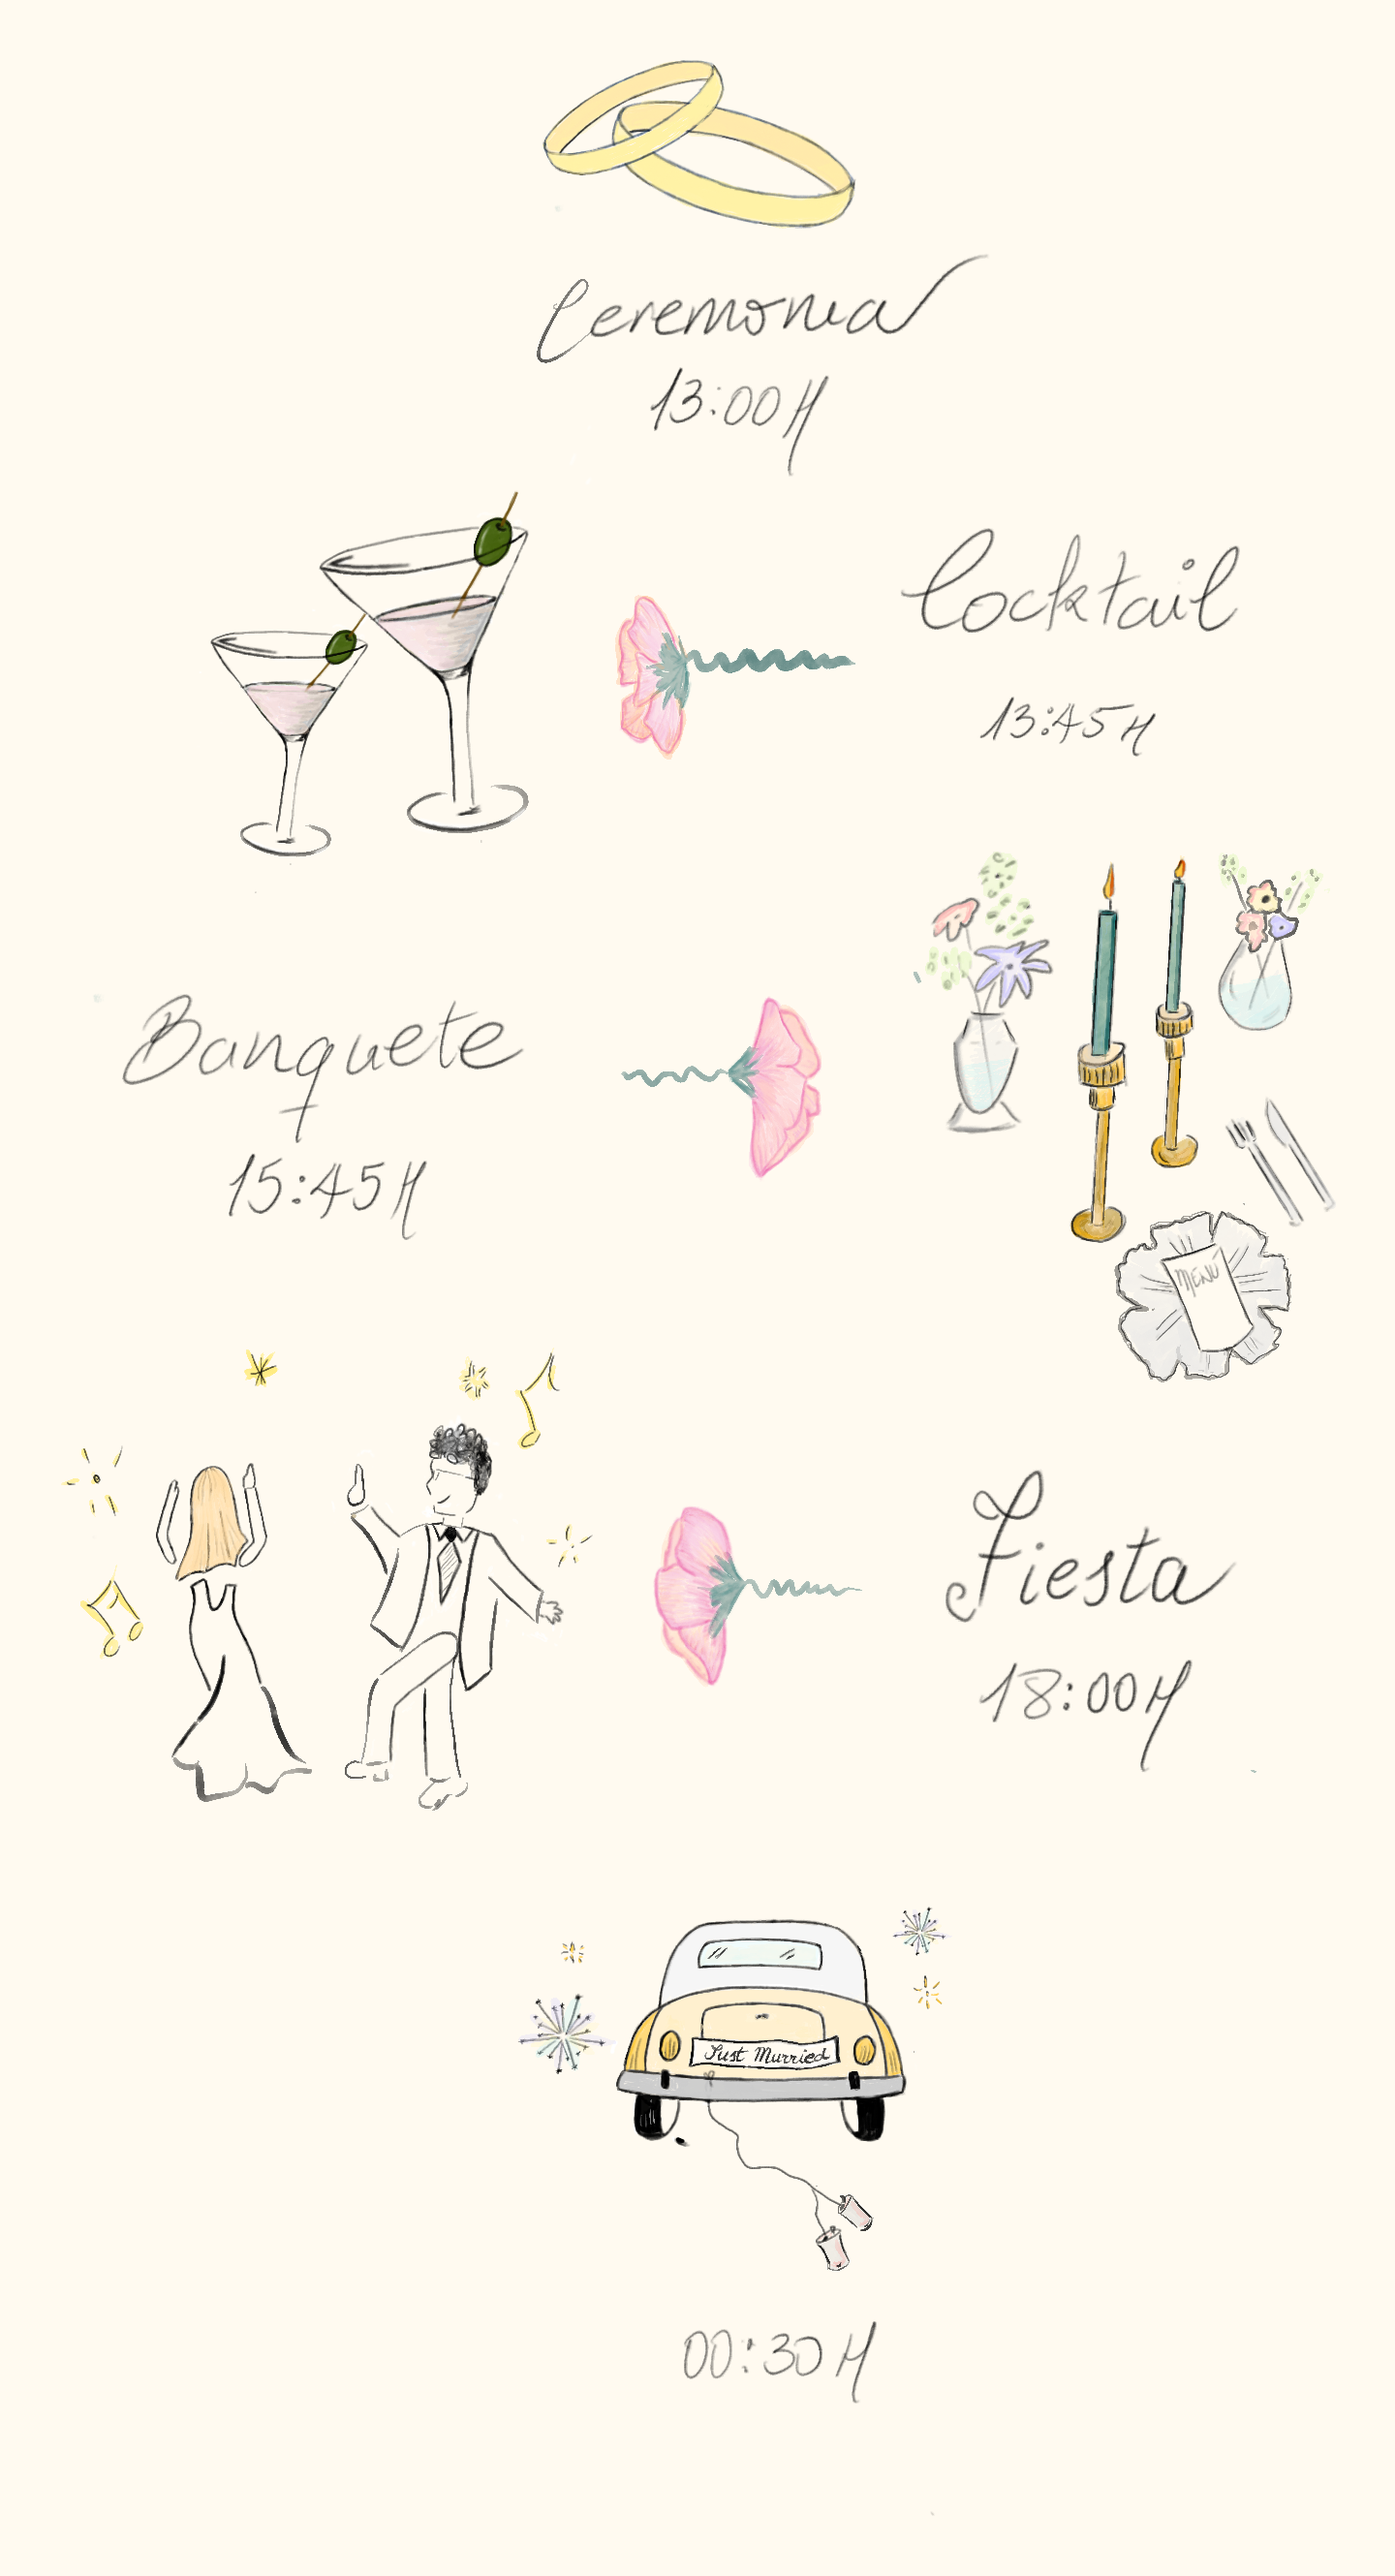
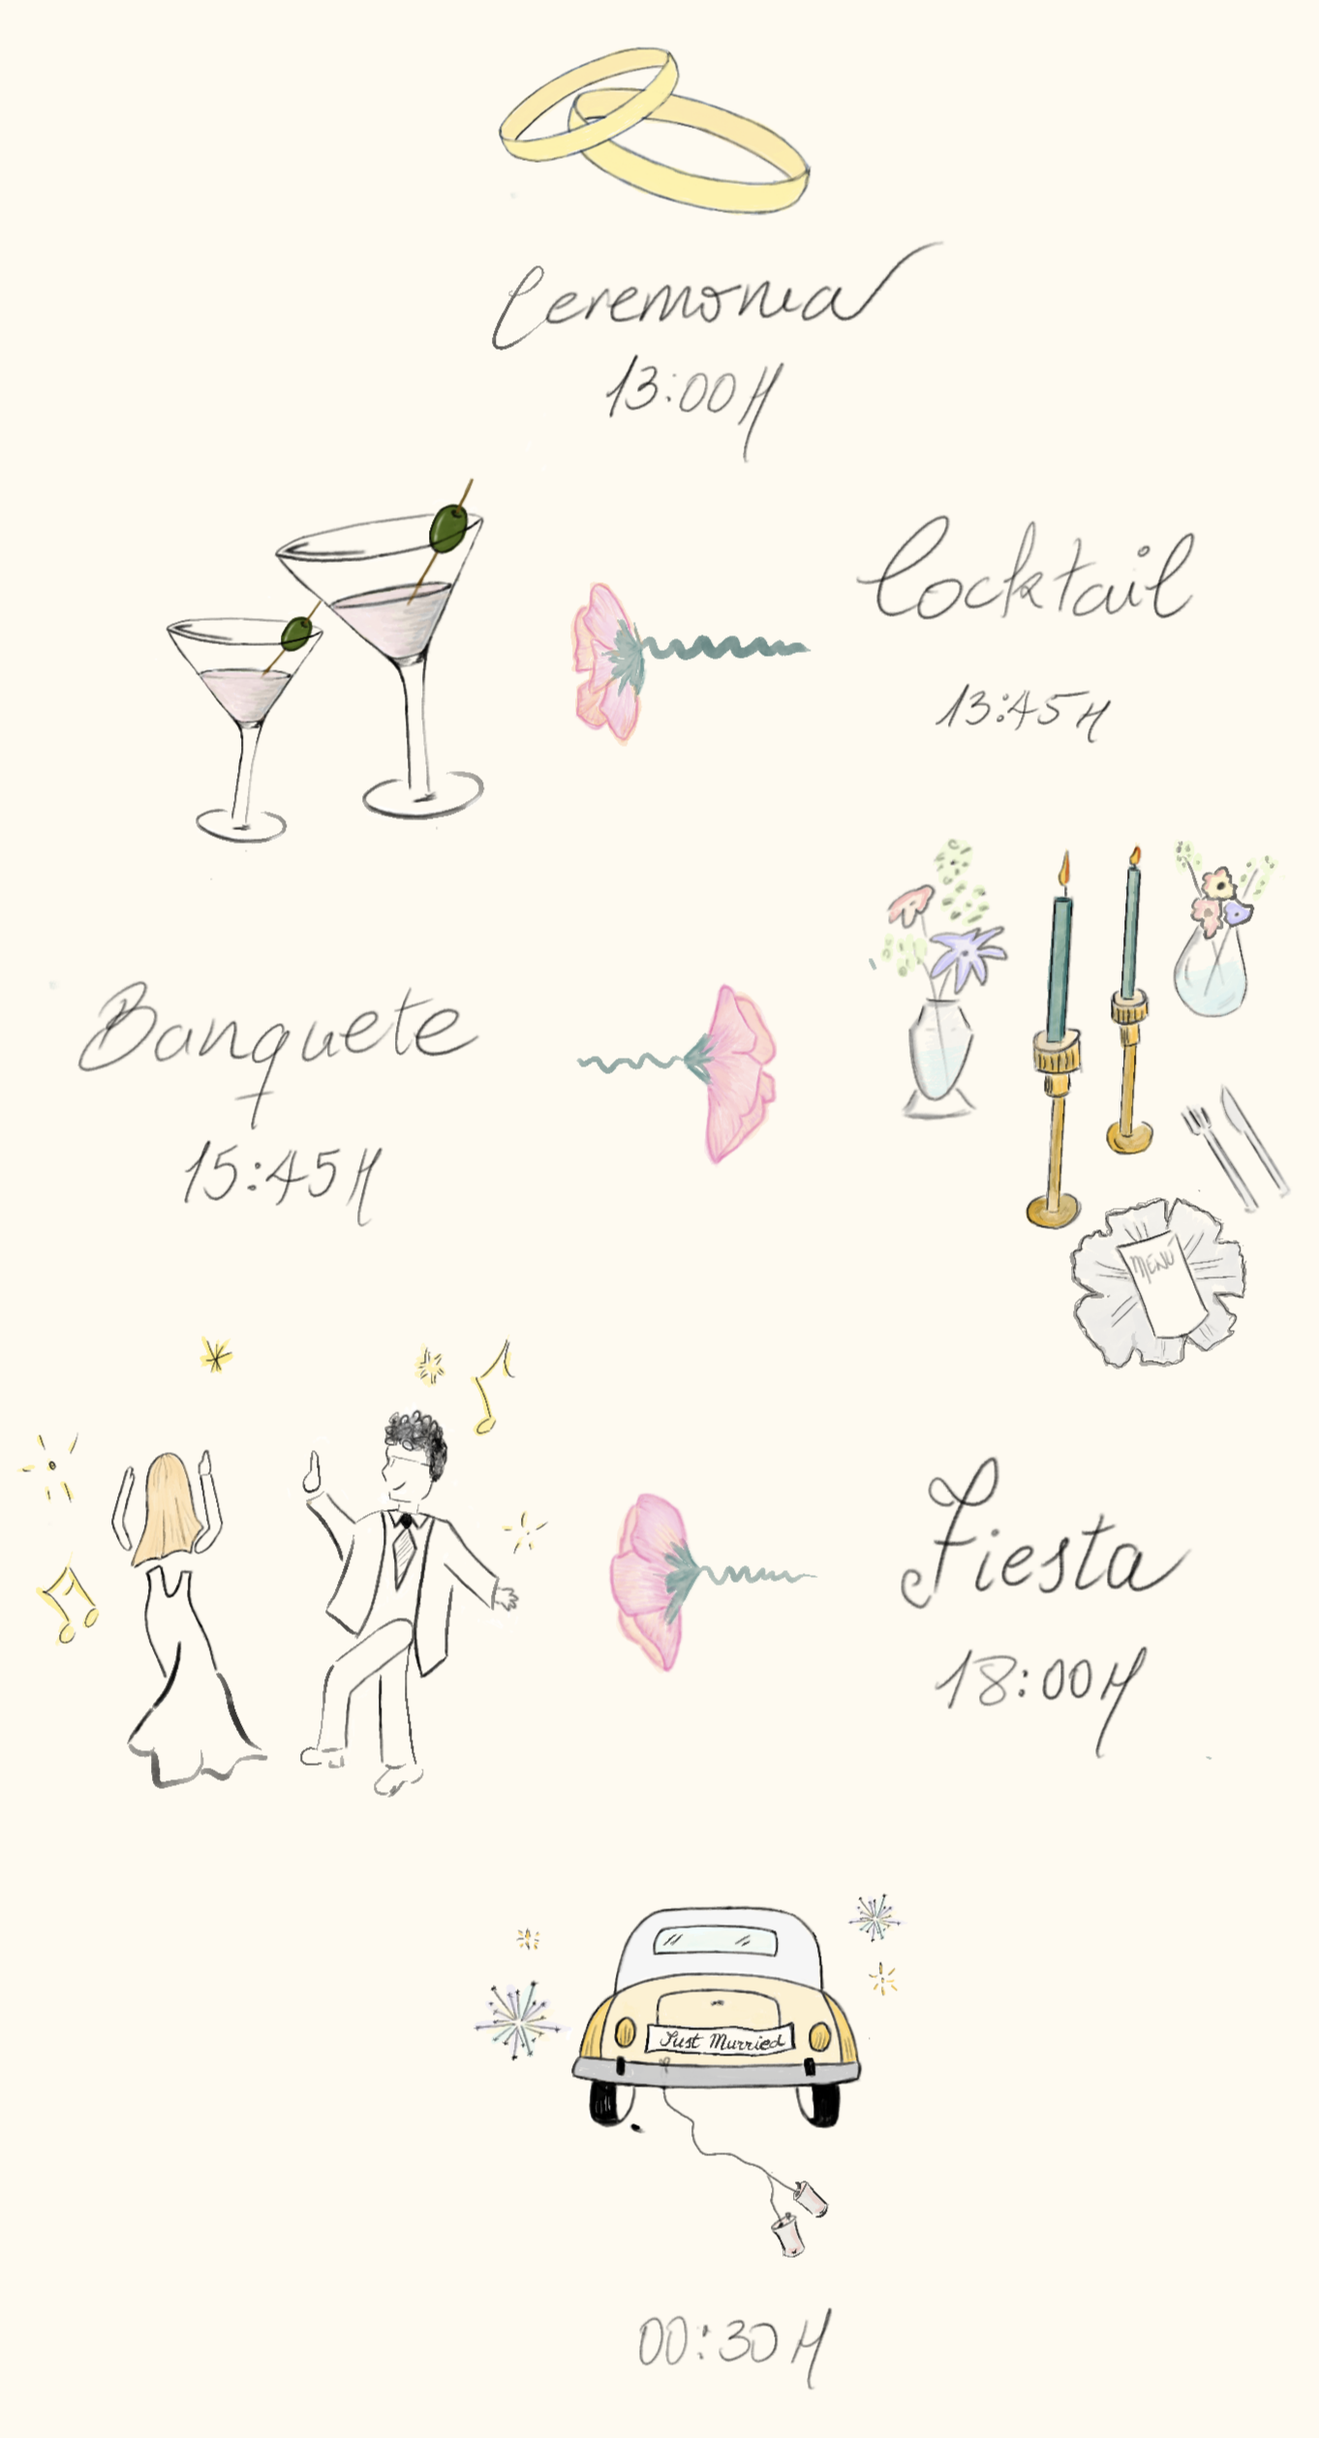
Add files via upload

diff --git a/index.html b/index.html
@@ -184,36 +184,34 @@
         .countdown-container {
             display: flex;
             justify-content: center;
-            gap: 15px;
+            gap: 40px;
             flex-wrap: wrap;
-            margin-top: 25px;
-            margin-bottom: 35px;
+            margin-top: 30px;
+            margin-bottom: 40px;
         }
 
         .countdown-item {
             text-align: center;
-            padding: 12px 16px;
-            background-color: rgba(245, 240, 232, 0.6);
-            border-radius: 8px;
-            min-width: 70px;
-            backdrop-filter: blur(4px);
-            border: 1px solid rgba(184, 134, 11, 0.2);
         }
 
         .countdown-number {
-            font-family: 'Playfair Display', serif;
-            font-size: 32px;
+            font-family: 'Cormorant Garamond', serif;
+            font-size: 56px;
             font-weight: 700;
-            color: var(--accent-terracotta);
+            color: var(--primary-gold);
             display: block;
-            margin-bottom: 4px;
+            margin-bottom: 8px;
+            text-shadow: 0 3px 12px rgba(0, 0, 0, 0.8);
+            letter-spacing: 2px;
         }
 
         .countdown-label {
-            font-size: 11px;
-            color: var(--taupe);
+            font-size: 13px;
+            color: var(--cream);
             text-transform: uppercase;
-            letter-spacing: 0.5px;
+            letter-spacing: 2px;
+            text-shadow: 0 2px 6px rgba(0, 0, 0, 0.8);
+            font-weight: 600;
         }
 
         /* COUNTDOWN BUTTONS */
